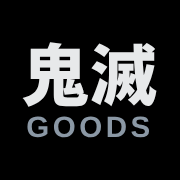
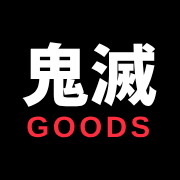
配色を黒・赤・白に統一（アイコンも変更）
Claude-Session: https://claude.ai/code/session_01CFTutMf6X1SyKWpGZP9njK

Changed region(s): [[0.4444, 0.6389, 0.8333, 0.7778], [0.1389, 0.6389, 0.4167, 0.7778]]

diff --git a/index.html b/index.html
@@ -209,6 +209,24 @@ footer{background:#000;border-top:1px solid var(--line);color:var(--sub)}
   .day.today .dn{background:var(--blue);color:#fff!important}
   .day.sel{box-shadow:inset 0 0 0 2px #e7e9ea}
 }
+/* ===== 黒・赤・白 ===== */
+:root{--acc:#ff2d3d}
+.mark{background:var(--acc);color:#fff}
+.cc button.on{background:var(--acc);border-color:var(--acc);color:#fff}
+.cc button.on small{color:#ffd6d9}
+.fnote{color:var(--acc)}
+.day.today{background:#1f0507;box-shadow:inset 0 0 0 2px var(--acc)}
+.day.today .dn::after{background:var(--acc);color:#fff}
+.dow.sat,.day.sat .dn{color:#e7e9ea}
+.dow.sun,.day.sun .dn{color:var(--acc)}
+h2.sec::before,.selbox h3::before{background:var(--acc)}
+.md{border-top-color:var(--acc)}
+.topbar{border-bottom:2px solid var(--acc)}
+.bt.y:hover,.today-btn:hover{background:var(--acc);border-color:var(--acc);color:#fff}
+@media (max-width:760px){
+  .day.today{background:#000;box-shadow:none}
+  .day.today .dn{background:var(--acc);color:#fff!important}
+}
 </style>
 </head>
 <body>

diff --git a/template.html b/template.html
@@ -209,6 +209,24 @@ footer{background:#000;border-top:1px solid var(--line);color:var(--sub)}
   .day.today .dn{background:var(--blue);color:#fff!important}
   .day.sel{box-shadow:inset 0 0 0 2px #e7e9ea}
 }
+/* ===== 黒・赤・白 ===== */
+:root{--acc:#ff2d3d}
+.mark{background:var(--acc);color:#fff}
+.cc button.on{background:var(--acc);border-color:var(--acc);color:#fff}
+.cc button.on small{color:#ffd6d9}
+.fnote{color:var(--acc)}
+.day.today{background:#1f0507;box-shadow:inset 0 0 0 2px var(--acc)}
+.day.today .dn::after{background:var(--acc);color:#fff}
+.dow.sat,.day.sat .dn{color:#e7e9ea}
+.dow.sun,.day.sun .dn{color:var(--acc)}
+h2.sec::before,.selbox h3::before{background:var(--acc)}
+.md{border-top-color:var(--acc)}
+.topbar{border-bottom:2px solid var(--acc)}
+.bt.y:hover,.today-btn:hover{background:var(--acc);border-color:var(--acc);color:#fff}
+@media (max-width:760px){
+  .day.today{background:#000;box-shadow:none}
+  .day.today .dn{background:var(--acc);color:#fff!important}
+}
 </style>
 </head>
 <body>
